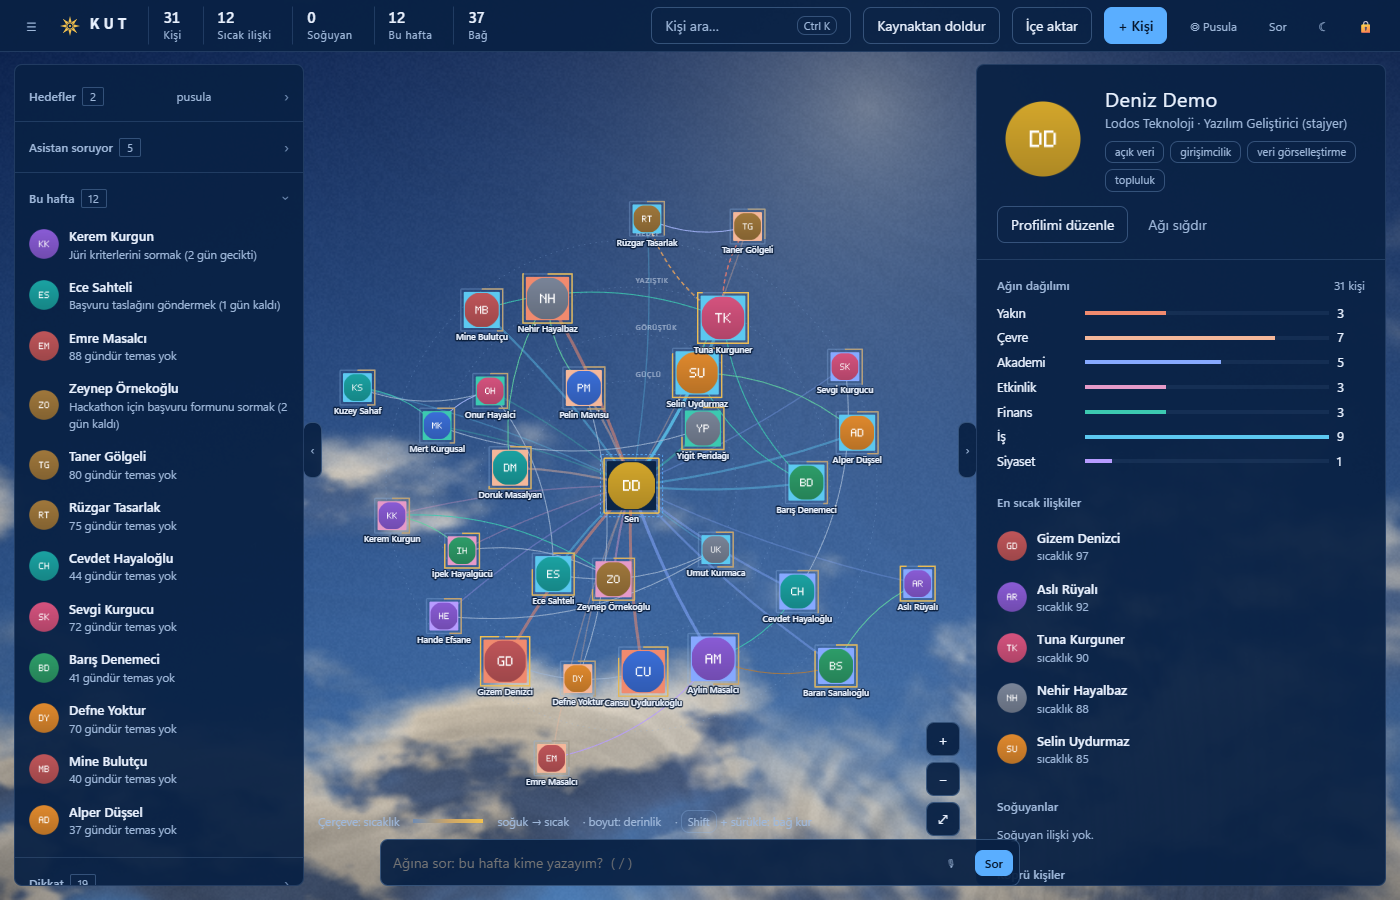
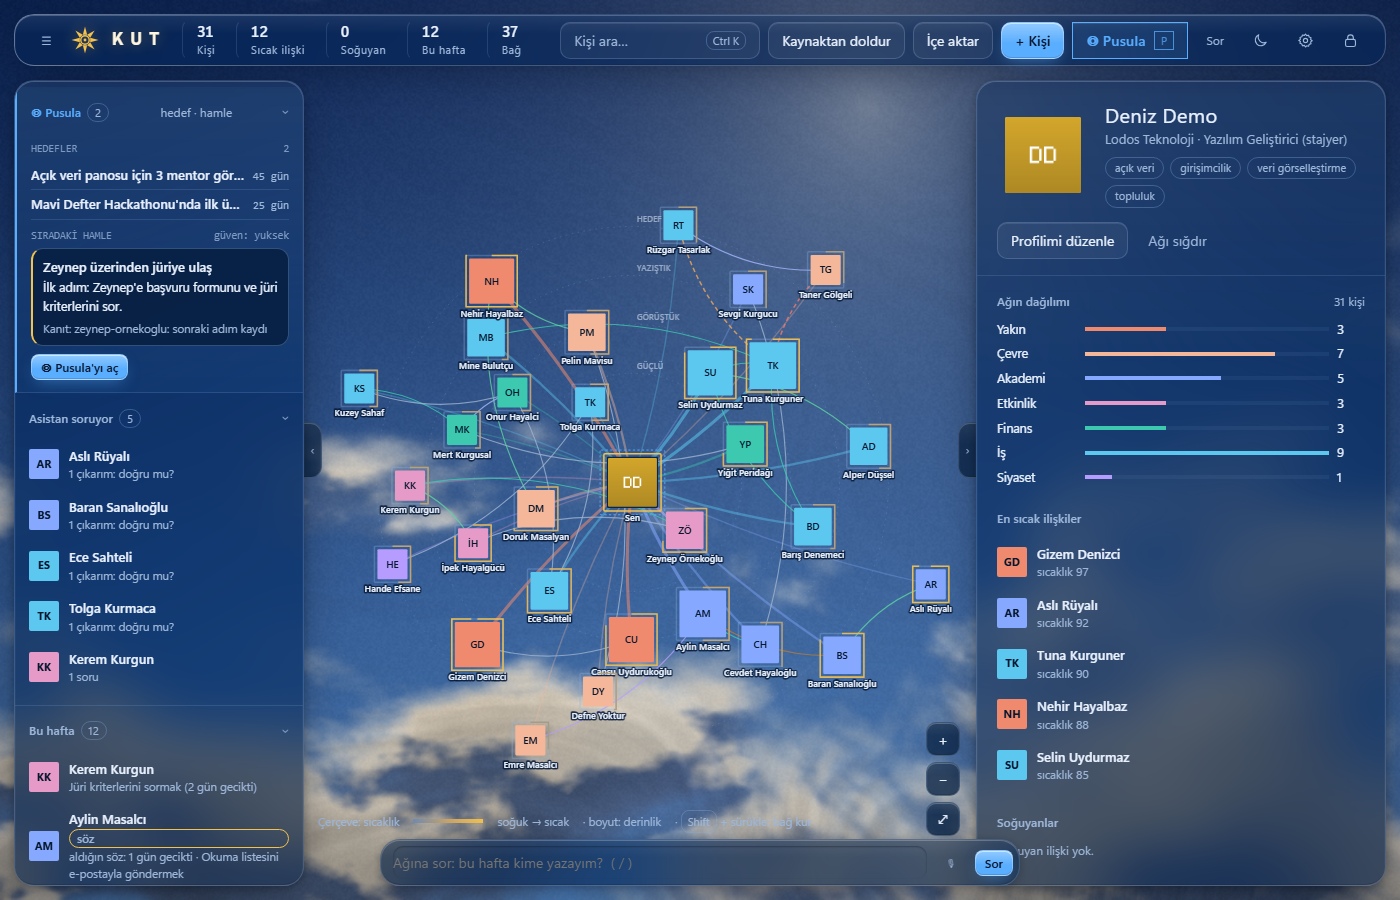
README: v1.1 ekran görüntüleri ve GIF, sihirbaz, Ayarlar, içe aktarma, Sözler ve uygulama içi demo görselleri; kurgusal içe aktarma örnekleri

diff --git a/README.md b/README.md
@@ -6,13 +6,16 @@ kimi ihmal ettiğini ve bu hafta kime yazman gerektiğini hatırla. Hesap yok, b
 ![Kut: harita, kişi kartı, bu hafta ve Pusula](docs/img/kut-demo.gif)
 
 > *Kut (formerly "Ağım") is a local, private personal-network app: a photo map of the people you know, contact log, relationship graph,
-> conflict-of-interest hints and a "who should I reach out to this week" list. It is a Python 3 standard-library HTTP server bound to
-> `127.0.0.1` plus a single-page HTML UI; no accounts, no cloud, no dependencies. Your data lives as plain Markdown files and never enters
-> this repository. An optional AI assistant (Claude Code) can analyse notes, but every record passes a local privacy gate first (see
-> [Gizlilik](#gizlilik)). Try it without any personal data: `py -3 demo/demo_veri.py --hedef demo-veri`, then
+> conflict-of-interest hints, a "who should I reach out to this week" list and a log of promises you gave or received. It is a Python 3
+> standard-library HTTP server bound to `127.0.0.1` plus a single-page HTML UI; no accounts, no cloud, no dependencies. Your data lives as
+> plain Markdown files and never enters this repository. v1.1 adds a first-run setup wizard with a guided tour, calendar (.ics) and
+> LinkedIn (CSV) import, a Settings window for optional sources, a choice of AI provider (Claude Code, Codex, Gemini or local Ollama;
+> no API keys stored) and a built-in fictional demo story ("Deniz'in salısı") that never touches your data. The AI assistant is optional:
+> every record passes a local privacy gate first (see [Gizlilik](#gizlilik)). The interface is in Turkish. Try it without any personal data:
+> the "Önce bir örnekle göster" button in the first-run wizard, or `py -3 demo/demo_veri.py --hedef demo-veri` then
 > `py -3 kut.pyw --veri demo-veri` ([Demo verisiyle deneme](#demo-verisiyle-deneme)). Licence: MIT.*
 
-Bu README'deki tüm ekran görüntüleri ve GIF, `demo/demo_veri.py`'nin ürettiği **tamamen kurgusal** verilerle çekilmiştir; gerçek kişi yoktur.
+Bu README'deki tüm ekran görüntüleri ve GIF (v1.1 arayüzü), `demo/demo_veri.py`'nin ürettiği **tamamen kurgusal** verilerle (merkezdeki kişi "Deniz Demo"), içe aktarma örnekleri `demo/ornek/` altındaki kurgusal dosyalarla ve uygulama içi "Deniz'in salısı" demosuyla çekilmiştir; gerçek kişi yoktur.
 
 ## İçindekiler
 [Neler yapar](#neler-yapar) · [Gizlilik](#gizlilik) · [Kurulum](#kurulum) · [Demo verisiyle deneme](#demo-verisiyle-deneme) ·
@@ -43,6 +46,9 @@ yön, metin, isteğe bağlı son tarih; *Tamamla* ya da *İptal*. Kaynak, kişi 
 `- [ ] 2026-10-13 · ben → o · kitabı göndermek (son: 2026-10-17)` (`ben → o` = sen verdin, `o → ben` = o verdi; tamamlanan `[x]` ve `(tamam: GGG)`, iptal `[-]` ve `(iptal: GGG)`;
 iptal satırı silinmez, yazımdan önce `arsiv/surum/`'a kopya alınır). Gecikmiş ya da son tarihi 7 gün içinde olan sözler **Bu hafta** listesinde "söz" etiketiyle ve
 "verdiğin söz: 2 gün gecikti" gibi görünür; Pusula hamleleriyle karışmaz.
+
+![Kişi kartında Sözler sekmesi](docs/img/kisi-sozler.png)
+
 **Kut'a sor**'da "Ayşe'ye kitabı cuma göndereceğim" yazarsan Kut kişiyi, yönü, metni ve tarihi (yarın, cuma, haftaya, ay sonu, 3 gün sonra, 17 Ekim...) yerelde ayrıştırır ve
 **"Ayşe'ye söz olarak ekleyeyim mi? (son: 16.10)"** diye sorar; sen onaylamadan hiçbir şey yazılmaz. Soru, olumsuz, geçmiş ve koşullu cümleler (ve belirsiz ad) öneri üretmez. Sözler kişi dosyasının parçasıdır,
 yani uzak modele yalnız kapıdan geçerek gider; kişi **🔒 Bu kişi yapay zekâya gönderilmez** ise hiç gitmez.
@@ -71,7 +77,11 @@ Hedeflerini (başlık, tür, son tarih, öncelik, başarı ölçütü, konu keli
 Pusula her zaman göz önündedir: üst çubukta vurgulu **◎ Pusula** düğmesi (kısayol **P**) ve sol panelin en üstünde bir **Pusula kartı** durur. Kart aktif hedeflerini, bu haftanın sıradaki hamlesini (strateji okumasından ilk hamle, ilk adımı ve ilk kanıtıyla) ve tek tıkla Pusula'yı açan düğmeyi gösterir. Hedefin yoksa *İlk hedefini yaz*, strateji henüz çıkarılmadıysa *Bu haftanın stratejisini çıkar* der; ikincisi seçili yapay zekâ sağlayıcısına gittiği için başlatmadan önce onay ister (sağlayıcı seçimi, kişi kapısı ve sır süzgeci aynen geçerli). Pusula penceresi yalnız *Hamleler, Hedefler, Keşfet · Vekiller, Keşfet · Etkinlikler* sekmelerini taşır; kaynak, okul, güncelleme, ses ve kasa kartları ⚙ **Ayarlar** penceresindedir.
 
 ### İlk açılış: kurulum ve tanıtım
-İlk PIN belirlendikten sonra Kut bir kez bir sihirbaz açar; önce kurulumu yapar, sonra özellikleri tanıtır. Kurulum adımlarının her biri atlanabilir: (1) adın ve kim olduğun (Profilim alanları), (2) yapay zekâ sağlayıcısı (Claude Code önerilir; Codex/Gemini seçilirse gizlilik uyarısı ve onay istenir, kurulu olmayanlar soluk), (3) sesli iletişim (mevcut Whisper + EMA Lightning kurulum sorusu; *Şimdi değil* seçilebilir), (4) kasa bağlıysa *Kasadan kişileri al* (kasa yoksa bu adım görünmez), (5) okul ve dersler ile İçe aktar penceresine yönlendirme. Ardından **sahne ışığı turu** başlar: tanıtılan öğe kendi renginde ve tam parlak kalır, gerisi koyu bir örtüyle gölgelenir; yanındaki kartta başlık, kısa açıklama, *Geri / İleri / Turu bitir* ve adım sayacı vardır (klavye: ← → Esc; `prefers-reduced-motion` açıksa geçişler kapanır). Sıra: ağ haritası, kişi kartı, Doğrula ("Asistan soruyor"), Bu hafta, Kut'a sor ve sesli giriş, Pusula, İçe aktar, Ayarlar, Kilit. Hedef ekranda yoksa (boş ağ, dar pencere) adım sessizce atlanır; kapalı bir panel tur için açılır ve sonra eski haline döner. Tamamlanma ayarlarda tutulur (`ayarlar.json` → `sihirbaz.bitti`; yazan uç `/api/sihirbaz`: kilit + anahtar + yerel Origin). Sihirbazı kapatmak da "bitti" sayılır; ⚙ Ayarlar → *Kurulum ve tanıtımı aç* (ya da *Yalnız özellik turu*) ile istediğin zaman yeniden açarsın. Yeni tur adımı eklemek `kut/ag_sablon.html` içindeki `TUR_ADIMLARI` dizisine bir satır eklemektir (`id`, hedef seçici `hedef`, `baslik`, `metin`).
+İlk PIN belirlendikten sonra Kut bir kez bir sihirbaz açar; önce kurulumu yapar, sonra özellikleri tanıtır. Hoş geldin adımı seni profilindeki ilk adla karşılar ve günün saatine göre kısa bir cümle seçer; *Önce bir örnekle göster* düğmesi kurgusal bir ağı oynatır ([Demo verisiyle deneme](#demo-verisiyle-deneme)). Kurulum adımlarının her biri atlanabilir, zaten bilinenler (kayıtlı ad ve fotoğraf, seçili sağlayıcı, kurulu ses, alınmış kasa kişileri, okul ve dersler) otomatik atlanır; *Hazır olanları da gez* hepsini gösterir: (1) adın ve kim olduğun (Profilim alanları), (2) yapay zekâ sağlayıcısı (Claude Code önerilir; Codex/Gemini seçilirse gizlilik uyarısı ve onay istenir, kurulu olmayanlar soluk), (3) sesli iletişim (mevcut Whisper + EMA Lightning kurulum sorusu; *Şimdi değil* seçilebilir), (4) kasa bağlıysa *Kasadan kişileri al* (kasa yoksa bu adım görünmez), (5) okul ve dersler ile İçe aktar penceresine yönlendirme. Ardından **sahne ışığı turu** başlar: tanıtılan öğe kendi renginde ve tam parlak kalır, gerisi koyu bir örtüyle gölgelenir; yanındaki kartta başlık, kısa açıklama, *Geri / İleri / Turu bitir* ve adım sayacı vardır (klavye: ← → Esc; `prefers-reduced-motion` açıksa geçişler kapanır). Sıra: ağ haritası, kişi kartı, Sözler, "Bu kişi yapay zekâya gönderilmez" anahtarı, Doğrula ("Asistan soruyor"), Bu hafta, Kut'a sor ve sesli giriş, Pusula, İçe aktar, Ayarlar, Kilit. Hedef ekranda yoksa (boş ağ, dar pencere) adım sessizce atlanır; kapalı bir panel tur için açılır ve sonra eski haline döner. Tamamlanma ayarlarda tutulur (`ayarlar.json` → `sihirbaz.bitti`; yazan uç `/api/sihirbaz`: kilit + anahtar + yerel Origin). Sihirbazı kapatmak da "bitti" sayılır; ⚙ Ayarlar → *Kurulum ve tanıtımı aç* (ya da *Yalnız özellik turu*) ile istediğin zaman yeniden açarsın. Yeni tur adımı eklemek `kut/ag_sablon.html` içindeki `TUR_ADIMLARI` dizisine bir satır eklemektir (`id`, hedef seçici `hedef`, `baslik`, `metin`).
+
+| Hoş geldin adımı | Yapay zekâ sağlayıcısı adımı |
+|---|---|
+| ![Sihirbaz, karşılama](docs/img/sihirbaz-karsilama.png) | ![Sihirbaz, yapay zekâ sağlayıcısı](docs/img/sihirbaz-yapay-zeka.png) |
 
 ### Diğer özellikler
 - **İçe aktarma (WhatsApp, rehber, takvim, LinkedIn, ders listesi):** WhatsApp sohbetini (.txt/.zip, "medya olmadan"), .vcf rehberi, takvim dışa aktarmasını (.ics), LinkedIn veri kopyasını (Connections.csv / messages.csv) ya da okulundan kopyaladığın ders listesini *İçe aktar* penceresine bırakırsın; önce ne olacağını görürsün (önizleme hiçbir şey yazmaz), sonra onaylarsın. Mesaj içerikleri, toplantı açıklaması ve konumu saklanmaz; yalnız kim, ne zaman, hangi kanal. Ayrıntı: [Kullanım](#kullanım-ayrıntıları).
@@ -80,7 +90,18 @@ Pusula her zaman göz önündedir: üst çubukta vurgulu **◎ Pusula** düğmes
 - **PIN kilidi:** açılışta PIN sorulur; kilitliyken sunucu hiçbir kişisel veri göndermez (görsel örtü değil, sunucu tarafında).
 - **İkinci beyin köprüsü (isteğe bağlı, salt okur):** bir not kasasındaki açık işleri ve kişinin geçtiği satırları gösterir; kasaya hiçbir şey yazmaz.
 - **Yerel ses (isteğe bağlı):** Whisper ile konuşmayı yazıya çevirir, EMA Lightning ile cevapları Türkçe okur; hepsi bu bilgisayarda çalışır, ses diske yazılmaz. Kurulu değilse Kut, onayınla indirmeyi teklif eder (boyutlar önceden gösterilir).
-- **Görünüm:** bu bilgisayarda çizilen WebGL gökyüzü, gündüz/gece teması.
+- **Yapay zekâ sağlayıcısı:** Claude Code (önerilen), Codex CLI, Gemini CLI ya da yerel Ollama; sihirbazdan ya da Profilim → *Yapay zekâ sağlayıcısı*'ndan seçilir. Kut API anahtarı istemez ve saklamaz; ayrıntı ve sınırlar [Gizlilik](#gizlilik)'te.
+- **Görünüm:** bu bilgisayarda çizilen WebGL gökyüzü, gündüz/gece teması; pencere ve sekme geçişlerinde kısa arayüz sesleri (⚙ Ayarlar → *Arayüz sesleri*, varsayılan açık, kapatılabilir).
+
+İçe aktarma önizlemeleri (kurgusal `demo/ornek/takvim.ics` ve `demo/ornek/linkedin-Connections.csv` ile; önizleme hiçbir şey yazmaz):
+
+| Takvim (.ics) | LinkedIn (Connections.csv) |
+|---|---|
+| ![İçe aktar, takvim önizlemesi](docs/img/ice-takvim.png) | ![İçe aktar, LinkedIn önizlemesi](docs/img/ice-linkedin.png) |
+
+Üst çubuktaki ⚙ **Ayarlar** penceresi kurulum ve tanıtımı, arayüz seslerini, isteğe bağlı dış kaynakları, okul bağdaştırıcısını, güncellemeyi ve sesli iletişimi (kasa bağlıysa kasa kartını da) tek yerde toplar:
+
+![Ayarlar penceresi](docs/img/ayarlar.png)
 
 ![Kilit ekranı](docs/img/kilit.png)
 
@@ -202,7 +223,7 @@ Sunucu varsayılan olarak `http://127.0.0.1:47318/` adresinde açılır ve taray
 - **Windows kısayolu:** `baslatma\kur.ps1`'e sağ tık → *PowerShell ile çalıştır* (verini başka bir klasörde tutmak için: `powershell -ExecutionPolicy Bypass -File baslatma\kur.ps1 -Veri KLASÖR`). Masaüstü ve Başlat menüsüne **Kut** kısayolu gelir; Kut, Edge/Chrome uygulama penceresinde (ayrı profil) açılır. Varsayılan tarayıcı için `ayarlar.json`'a `"tarayici": "varsayilan"` yaz.
 - **macOS:** Terminal'de bir kez `chmod +x baslatma/Kut.command`, sonra `baslatma/Kut.command`'a çift tıkla (Python 3 gerekli: `python3 --version`).
 
-İlk açılışta bir PIN belirlersin, sonra merkezdeki kendi düğümüne tıkla → **Profilimi düzenle** (ad, fotoğraf, asistanının adı).
+İlk açılışta bir PIN belirlersin; ardından kurulum sihirbazı adını, yapay zekâ sağlayıcını ve diğer isteğe bağlı adımları sorar (hepsi atlanabilir, bkz. *İlk açılış: kurulum ve tanıtım*). Sonradan değiştirmek için merkezdeki kendi düğümüne tıkla → **Profilimi düzenle** (ad, fotoğraf, asistanının adı).
 
 ## Güncelleme
 
@@ -217,9 +238,15 @@ Sürüm numarası ve güncelleme denetimi **Ayarlar → Kaynaklar → Güncellem
 
 ## Demo verisiyle deneme
 
+**Uygulama içi demo ("Deniz'in salısı").** Hiçbir şey kurmadan görmek için ilk açılış sihirbazının hoş geldin adımındaki ya da ⚙ Ayarlar → *Kurulum ve tanıtım*'daki **Önce bir örnekle göster** düğmesini kullan. Kurgusal bir kişinin ağında altı sahne oynar: ağ, Pusula'nın fark ettiği soğumuş bağ, Kut'a sor, söz yakalama, bağın yeniden ısınması ve kilit. Sahne ışığı turuyla aynı motoru kullanır. Senin verine ve ayar klasörüne dokunmaz: demo geçici bir klasörde ayrı bir veri kopyasıyla çalışır, kapatınca, kilit kapanınca, 45 dakika boşta kalınca ya da çıkışta bu klasör silinir. Ağa ve modele çıkmaz ("Kut'a sor" cevapları hazırdır, söz yakalama yerel kural motorudur). Anlatım sesi isteğe bağlıdır: `kut/demo_ses/` altında ses dosyası varsa çalar, yoksa demo sessiz sürer.
+
+| Pusula fark etti | Söz verdin, Kut yakaladı | Bağ yeniden ısındı |
+|---|---|---|
+| ![Demo, Pusula](docs/img/demo-sali-pusula.png) | ![Demo, söz yakalama](docs/img/demo-sali-soz.png) | ![Demo, bağ yeniden ısındı](docs/img/demo-sali-isinma.png) |
+
 Kendi verini girmeden denemek (ya da ekran görüntüsü/video çekmek) için `demo/demo_veri.py` 31 kurgusal kişi (ikisi dolaylı), ilişkiler, bekleyen çıkarımlar,
 iki hedef ve örnek bir strateji okuması üretir. Tüm adlar ve kurumlar uydurmadır; kişilerin fotoğrafı yoktur; harita onları tür renginde dolu kare ve baş harf olarak çizer.
-Tarihler bugüne göre göreli üretilir, böylece "Bu hafta" listesi her zaman dolu gelir.
+Tarihler bugüne göre göreli üretilir, böylece "Bu hafta" listesi her zaman dolu gelir. İçe aktarmayı denemek için `demo/ornek/takvim.ics` ve `demo/ornek/linkedin-Connections.csv` kurgusal dosyalarını *İçe aktar* penceresine bırakabilirsin (adlar bu demo verisiyle eşleşir; tarihleri sabittir; önizleme hiçbir şey yazmaz, yazma yalnız *Onayla ve yaz* ile olur).
 
 ```powershell
 py -3 demo/demo_veri.py --hedef "$env:TEMP\kut-demo"        # --hedef verilmezse geçici klasör açılır ve yolu yazdırılır
@@ -268,7 +295,7 @@ Demoda çevrimdışı kalmak ve model çağrısını kapatmak istersen, `kut-dem
   | Rehber | .vcf | ad, telefon, e-posta, kurum, rol, fotoğraf | not alanları | seçtiğin adaylar ağa girer |
   | Takvim | .ics ya da Google Takeout .zip (Google, Outlook, Apple) | katılımcı (e-posta + ad), tarih, `SUMMARY` yalnız "Başlıkları yaz" açıksa kısaltılmış (varsayılan kapalı, "toplantı" yazılır; sağlık/hukuk/maaş gibi başlıklar açıkken de "toplantı" olur) | açıklama, konum, bağlantı, ek, alarm | mevcut kişilere `GG.AA.YYYY · takvim · toplantı` satırı ve yalnız ileri giden `son_temas`; tanınmayan katılımcılar seçersen yeni kişi (yakınlık 0); e-postası boş kişilerin e-posta önerisi Doğrula'ya düşer. Tekrarlayan etkinlikler yalnız geçmişte, seri başına en fazla 60; 15'ten çok katılımcılı toplantılar yakınlık sayılmaz (istersen sayılır); kendi adresin çıkarılır |
   | LinkedIn | veri kopyası .zip, `Connections.csv` (başta "Notes:" olabilir), `messages.csv` | bağlantının adı, URL, e-posta, şirket, pozisyon, bağlanma tarihi; mesajlarda yalnız kiminle ve hangi gün | mesaj içeriği ve konusu hiçbir yerde okunup saklanmaz; ZIP'teki diğer dosyalar açılmaz | mevcut kişide yalnız boş linkedin/kurum/rol Doğrula'ya öneri; bağlanma tarihi `## Kaynaklar` notu; mesaj günleri `linkedin` temas satırı; yeni bağlantılar yalnız seçersen (yakınlık 0, tür tahmini yok); binlerce bağlantıda arama, süzme ve toplu seçim |
-  | Ders listesi | yapıştırılan metin | ders kodu, ders adı, hoca adı (Prof. Dr., Doç. Dr., Dr. Öğr. Üyesi, Öğr. Gör., Arş. Gör. gibi unvanlar atılır) | — | dersler profilene, hocalar ağa (yakınlık 0, tür akademi, `## Dersler`, `hocasi` bağı); okul sitesine istek yok |
+  | Ders listesi | yapıştırılan metin | ders kodu, ders adı, hoca adı (Prof. Dr., Doç. Dr., Dr. Öğr. Üyesi, Öğr. Gör., Arş. Gör. gibi unvanlar atılır) | yok | dersler profilene, hocalar ağa (yakınlık 0, tür akademi, `## Dersler`, `hocasi` bağı); okul sitesine istek yok |
 
   Kendi e-postanı "Takvimdeki e-posta adresin" alanına yazarsan (ya da takvim dosyasında takvim adı e-postaysa) Kut seni katılımcılardan çıkarır ve `ayarlar.json` → `ben_epostalari`'na kaydeder.
   Başlık tercihi `ayarlar.json` → `takvim_baslik` (true/false) olarak hatırlanır.
@@ -379,7 +406,7 @@ Profilinde `okul` boşsa ya da tanımsızsa bu özellik kapalıdır ve hiçbir o
 kut.pyw        başlatıcı (kut/ klasörünü yola ekler, sunucuyu açar)
 kut/           uygulama kodu (ag_*.py), sürüm (surum.py), güncelleme (ag_guncelle.py), veri göçleri (goc.py), arayüz (ag_sablon.html), simge
 tests/         birim testleri
-demo/          kurgusal demo verisi üreticisi
+demo/          kurgusal demo verisi üreticisi (demo_veri.py) ve içe aktarma örnek dosyaları (ornek/)
 docs/          ekran görüntüleri (img/) ve tasarım taslakları (tasarim/)
 paketleme/     Kut.exe derleme (kut.spec, paketle.ps1; Kut.exe.sha256 de üretir)
 baslatma/      Windows kısayol kurucu (kur.ps1), macOS başlatıcı (Kut.command)
